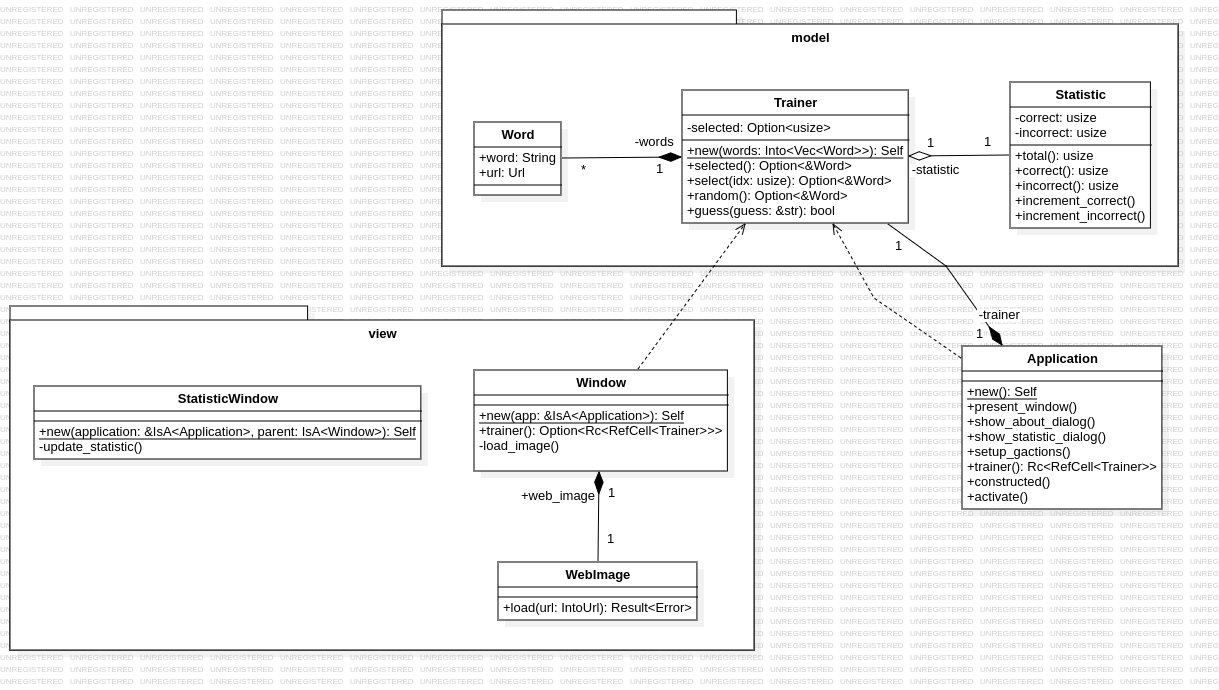
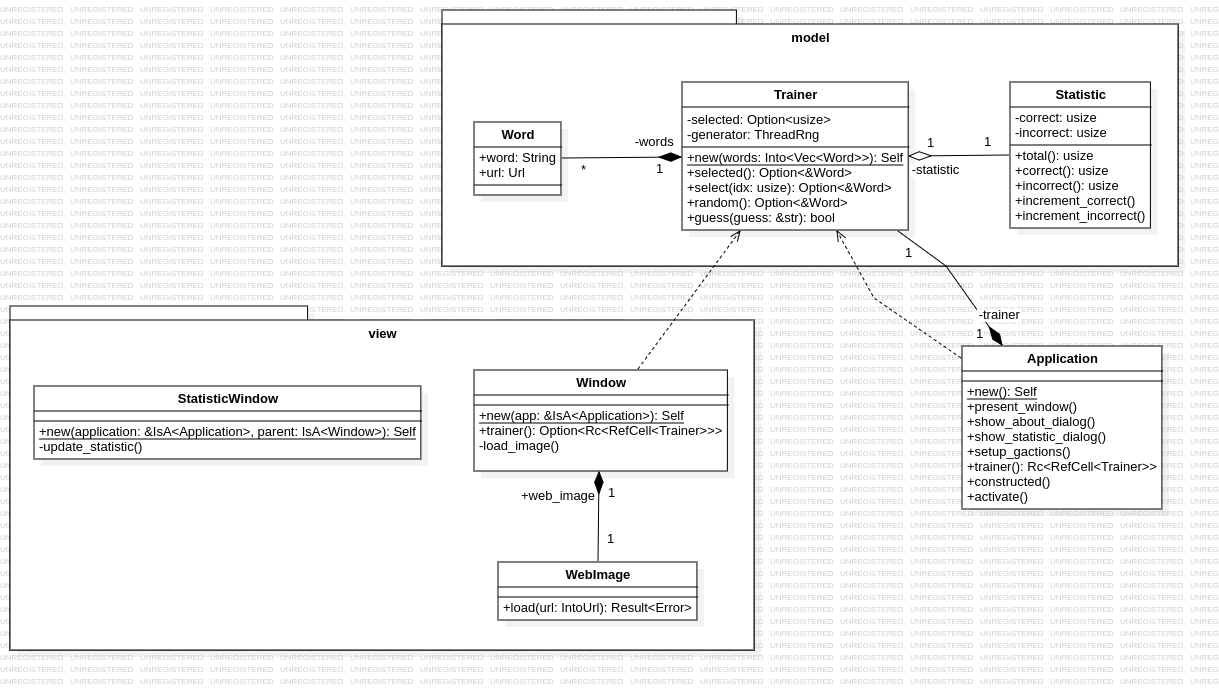
Keep random generator state

Changed region(s): [[0.5611, 0.1217, 0.7482, 0.3348]]

diff --git a/src/model/mod.rs b/src/model/mod.rs
@@ -13,11 +13,21 @@ pub struct Word {
     pub url: Url,
 }
 
-#[derive(Default, Clone, Debug, Eq, PartialEq, Serialize, Deserialize)]
+#[derive(Default, Clone, Debug, Serialize, Deserialize)]
 pub struct Trainer {
     words: Vec<Word>,
     selected: Option<usize>,
     statistic: Statistic,
+    #[serde(skip)]
+    generator: ThreadRng,
+}
+
+impl PartialEq for Trainer {
+    fn eq(&self, other: &Self) -> bool {
+        self.words == other.words &&
+            self.selected == other.selected &&
+            self.statistic == other.statistic
+    }
 }
 
 impl Trainer {
@@ -44,7 +54,7 @@ impl Trainer {
         if self.words.is_empty() {
             self.selected = None;
         } else {
-            let idx = sample(&mut thread_rng(), self.words.len(), 1).index(0);
+            let idx = sample(&mut self.generator, self.words.len(), 1).index(0);
             self.select(idx);
         }
 
@@ -73,7 +83,7 @@ mod test {
     use lazy_static::lazy_static;
     use super::*;
 
-    lazy_static!{
+    lazy_static! {
         static ref WORDS: [Word; 2] = [
             Word {
                 word: "Apple".to_owned(),
